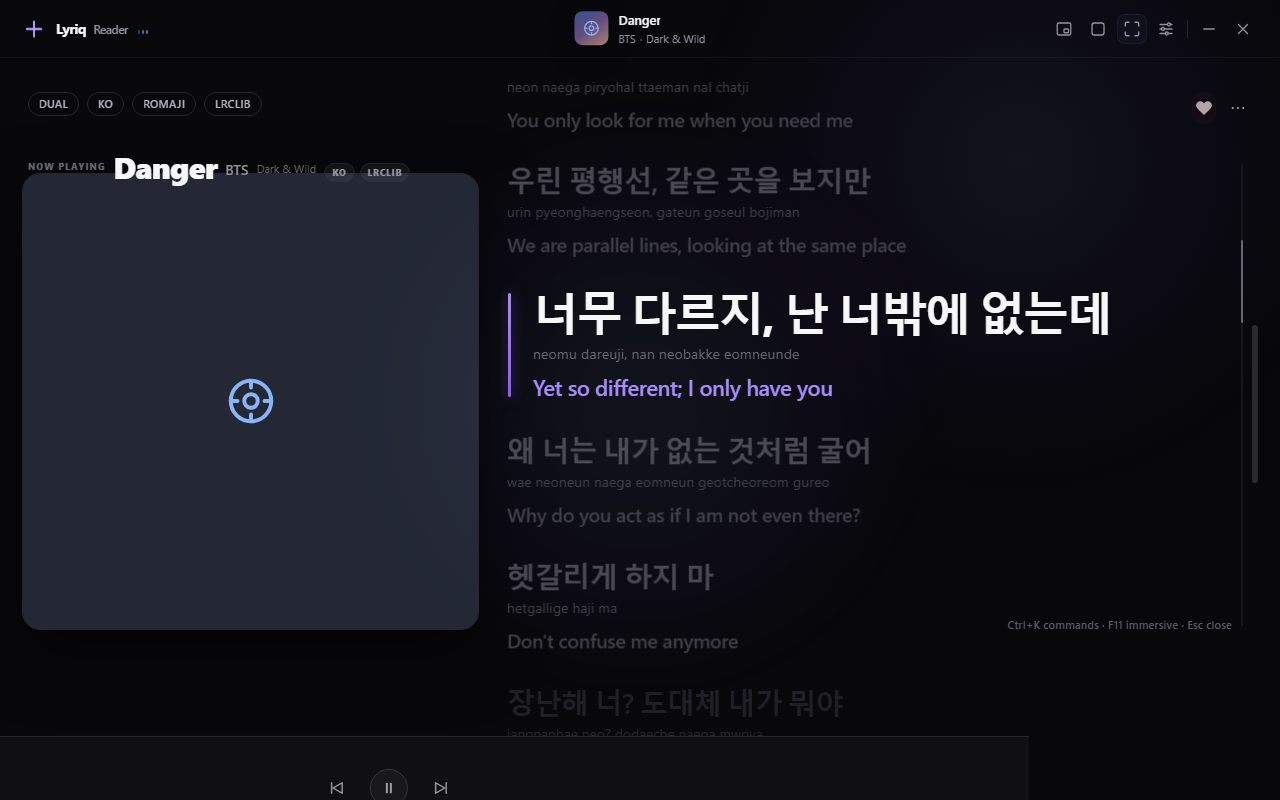
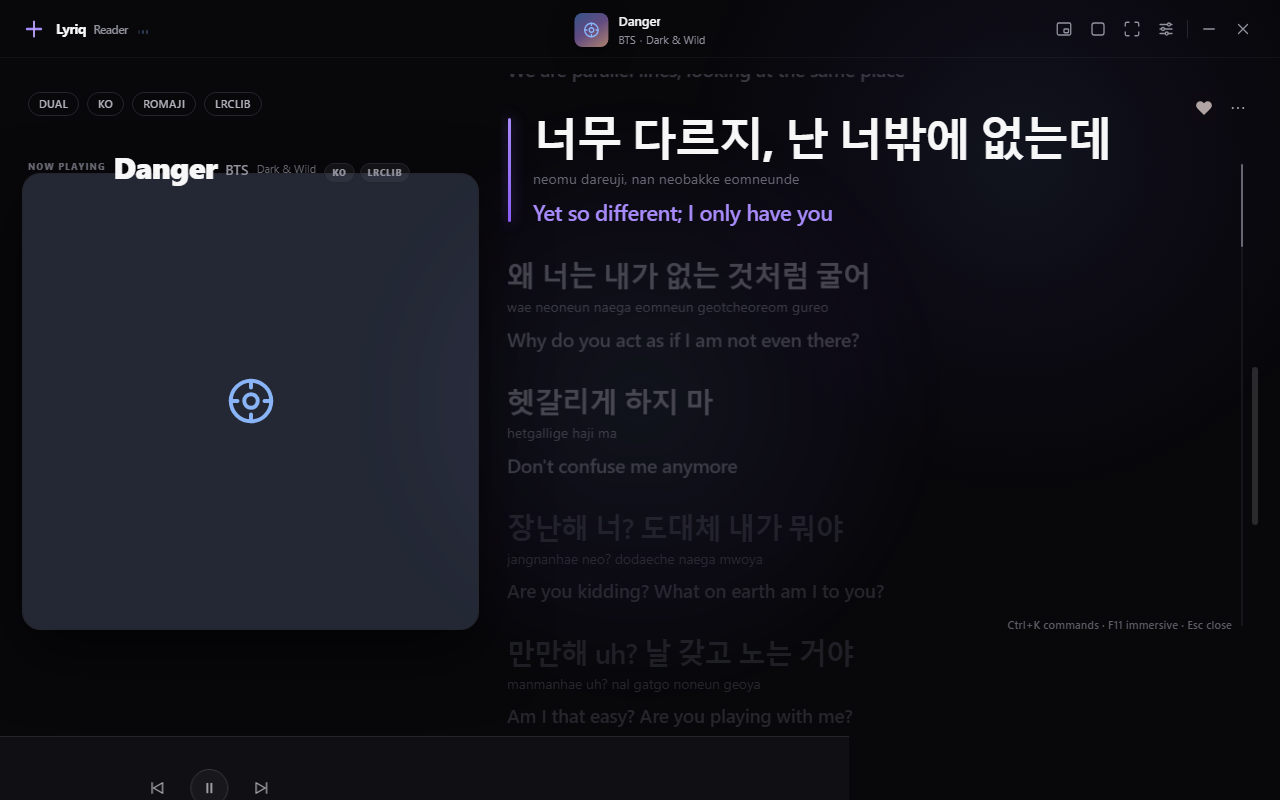
Fix header clipping and lyrics stage vertical positioning
- Lock window scroll in html/body and app-shell to prevent ancestor scroll bubbling
- Replace Element.scrollIntoView with container-isolated scrollTo on lyricsViewport
- Update lyrics-scroll padding to 38vh/44vh to prevent collision with stage-meta pills and eliminate bottom void
- Center now-playing title and art vertically within topbar (58px height)

diff --git a/web/app.js b/web/app.js
@@ -822,19 +822,23 @@
         activeEl.classList.add('active');
         setupActiveSublines(activeEl, index);
         if (allowScroll !== false && Date.now() > AppState.userScrollUntil && !AppState.isMini) {
-          if (previous < 0) {
-            var cRect = el.lyricsViewport.getBoundingClientRect();
-            var lRect = activeEl.getBoundingClientRect();
-            var offset = lRect.top - cRect.top + el.lyricsViewport.scrollTop;
+          var cRect = el.lyricsViewport.getBoundingClientRect();
+          var lRect = activeEl.getBoundingClientRect();
+          var offset = lRect.top - cRect.top + el.lyricsViewport.scrollTop;
+          var targetScroll = Math.max(0, offset - (cRect.height * 0.44));
+          if (previous < 0 || prefersReducedMotion() || AppState.lowPower) {
             el.lyricsViewport.style.scrollBehavior = 'auto';
-            el.lyricsViewport.scrollTop = Math.max(0, offset - (cRect.height * 0.45));
+            el.lyricsViewport.scrollTop = targetScroll;
             el.lyricsViewport.style.scrollBehavior = '';
           } else {
-            activeEl.scrollIntoView({
-              behavior: prefersReducedMotion() || AppState.lowPower ? 'auto' : 'smooth',
-              block: 'center'
+            el.lyricsViewport.scrollTo({
+              top: targetScroll,
+              behavior: 'smooth'
             });
           }
+          if (window.scrollY !== 0) window.scrollTo(0, 0);
+          if (document.documentElement.scrollTop !== 0) document.documentElement.scrollTop = 0;
+          if (document.body.scrollTop !== 0) document.body.scrollTop = 0;
         }
         updateSweep(index, currentPositionSeconds() + AppState.offset);
       }
@@ -3693,8 +3697,12 @@
     }
     if (AppState.activeIndex >= 0 && AppState.lyrics[AppState.activeIndex]) {
       var activeEl = $('line-' + AppState.activeIndex);
-      if (activeEl) {
-        activeEl.scrollIntoView({ behavior: 'auto', block: 'center' });
+      if (activeEl && el.lyricsViewport) {
+        var cRect = el.lyricsViewport.getBoundingClientRect();
+        var lRect = activeEl.getBoundingClientRect();
+        var offset = lRect.top - cRect.top + el.lyricsViewport.scrollTop;
+        el.lyricsViewport.scrollTop = Math.max(0, offset - (cRect.height * 0.44));
+        if (window.scrollY !== 0) window.scrollTo(0, 0);
       }
     }
   }

diff --git a/web/js/lyrics/sync.js b/web/js/lyrics/sync.js
@@ -67,19 +67,23 @@
         activeEl.classList.add('active');
         setupActiveSublines(activeEl, index);
         if (allowScroll !== false && Date.now() > AppState.userScrollUntil && !AppState.isMini) {
-          if (previous < 0) {
-            var cRect = el.lyricsViewport.getBoundingClientRect();
-            var lRect = activeEl.getBoundingClientRect();
-            var offset = lRect.top - cRect.top + el.lyricsViewport.scrollTop;
+          var cRect = el.lyricsViewport.getBoundingClientRect();
+          var lRect = activeEl.getBoundingClientRect();
+          var offset = lRect.top - cRect.top + el.lyricsViewport.scrollTop;
+          var targetScroll = Math.max(0, offset - (cRect.height * 0.44));
+          if (previous < 0 || prefersReducedMotion() || AppState.lowPower) {
             el.lyricsViewport.style.scrollBehavior = 'auto';
-            el.lyricsViewport.scrollTop = Math.max(0, offset - (cRect.height * 0.45));
+            el.lyricsViewport.scrollTop = targetScroll;
             el.lyricsViewport.style.scrollBehavior = '';
           } else {
-            activeEl.scrollIntoView({
-              behavior: prefersReducedMotion() || AppState.lowPower ? 'auto' : 'smooth',
-              block: 'center'
+            el.lyricsViewport.scrollTo({
+              top: targetScroll,
+              behavior: 'smooth'
             });
           }
+          if (window.scrollY !== 0) window.scrollTo(0, 0);
+          if (document.documentElement.scrollTop !== 0) document.documentElement.scrollTop = 0;
+          if (document.body.scrollTop !== 0) document.body.scrollTop = 0;
         }
         updateSweep(index, currentPositionSeconds() + AppState.offset);
       }

diff --git a/web/js/modes/square-mode.js b/web/js/modes/square-mode.js
@@ -57,8 +57,12 @@
     }
     if (AppState.activeIndex >= 0 && AppState.lyrics[AppState.activeIndex]) {
       var activeEl = $('line-' + AppState.activeIndex);
-      if (activeEl) {
-        activeEl.scrollIntoView({ behavior: 'auto', block: 'center' });
+      if (activeEl && el.lyricsViewport) {
+        var cRect = el.lyricsViewport.getBoundingClientRect();
+        var lRect = activeEl.getBoundingClientRect();
+        var offset = lRect.top - cRect.top + el.lyricsViewport.scrollTop;
+        el.lyricsViewport.scrollTop = Math.max(0, offset - (cRect.height * 0.44));
+        if (window.scrollY !== 0) window.scrollTo(0, 0);
       }
     }
   }

diff --git a/web/css/topbar.css b/web/css/topbar.css
@@ -104,8 +104,8 @@ body.is-playing .live-bars span:nth-child(3) { animation: bars 1.3s 0.3s ease-in
 .now-playing {
   position: absolute;
   left: 50%;
-  top: 50%;
-  transform: translate(-50%, -50%);
+  top: 12px;
+  transform: translateX(-50%);
   display: flex;
   align-items: center;
   gap: 10px;

diff --git a/web/css/base.css b/web/css/base.css
@@ -16,6 +16,7 @@ html,
 body {
   height: 100%;
   width: 100%;
+  overflow: hidden !important;
 }
 
 body {
@@ -112,6 +113,7 @@ body.low-power .album-backdrop {
   height: 100vh;
   width: 100vw;
   min-height: 0;
+  overflow: hidden !important;
 }
 
 .app-shell::before {

diff --git a/web/css/player-dock.css b/web/css/player-dock.css
@@ -47,9 +47,6 @@ body:not(.mode-mini):not(.mode-square):not(.mode-fullscreen) .dock-progress {
   background: #2A2A31;
 }
 
-body:not(.mode-mini):not(.mode-square):not(.mode-fullscreen) .lyrics-scroll {
-  padding-bottom: 110px;
-}
 
 .dock-progress {
   display: flex;

diff --git a/web/css/lyrics.css b/web/css/lyrics.css
@@ -103,9 +103,8 @@
   min-height: 0;
   overflow-y: auto;
   overflow-x: hidden;
-  scroll-behavior: smooth;
   scrollbar-gutter: stable;
-  padding: 14vh 24px 34vh;
+  padding: 38vh 24px 44vh;
 }
 
 .lyrics-scroll::-webkit-scrollbar,
